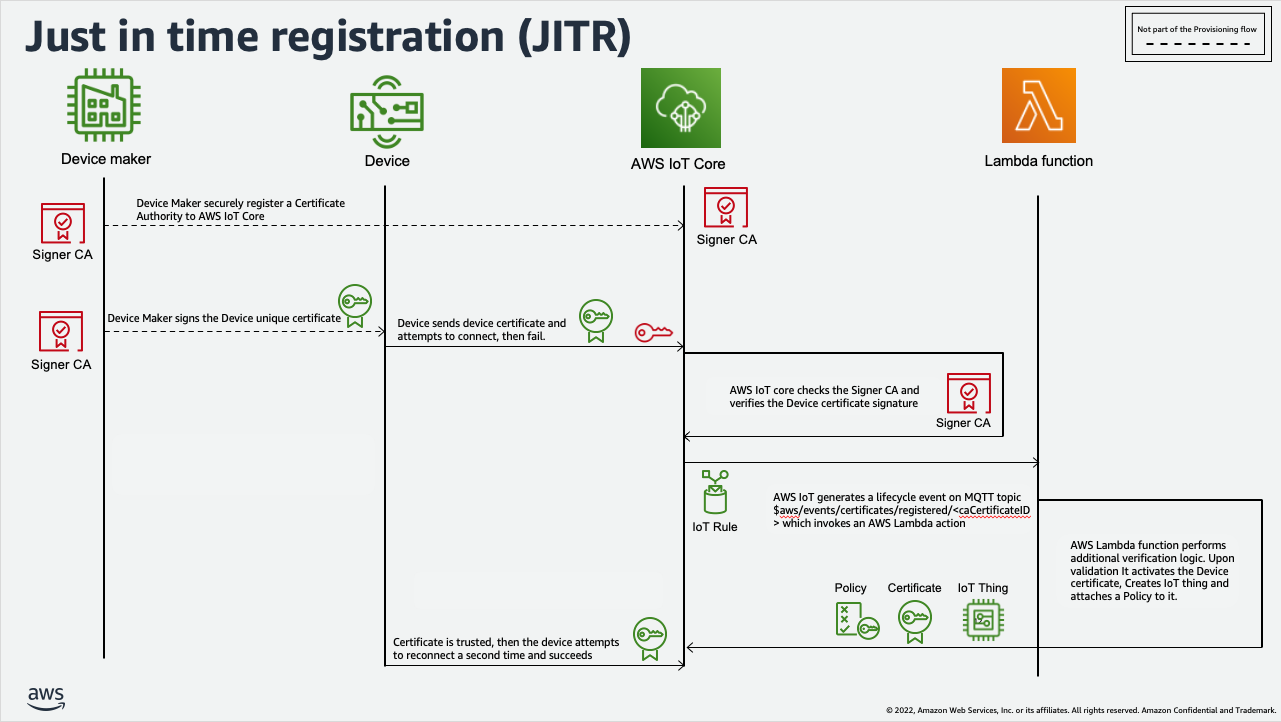
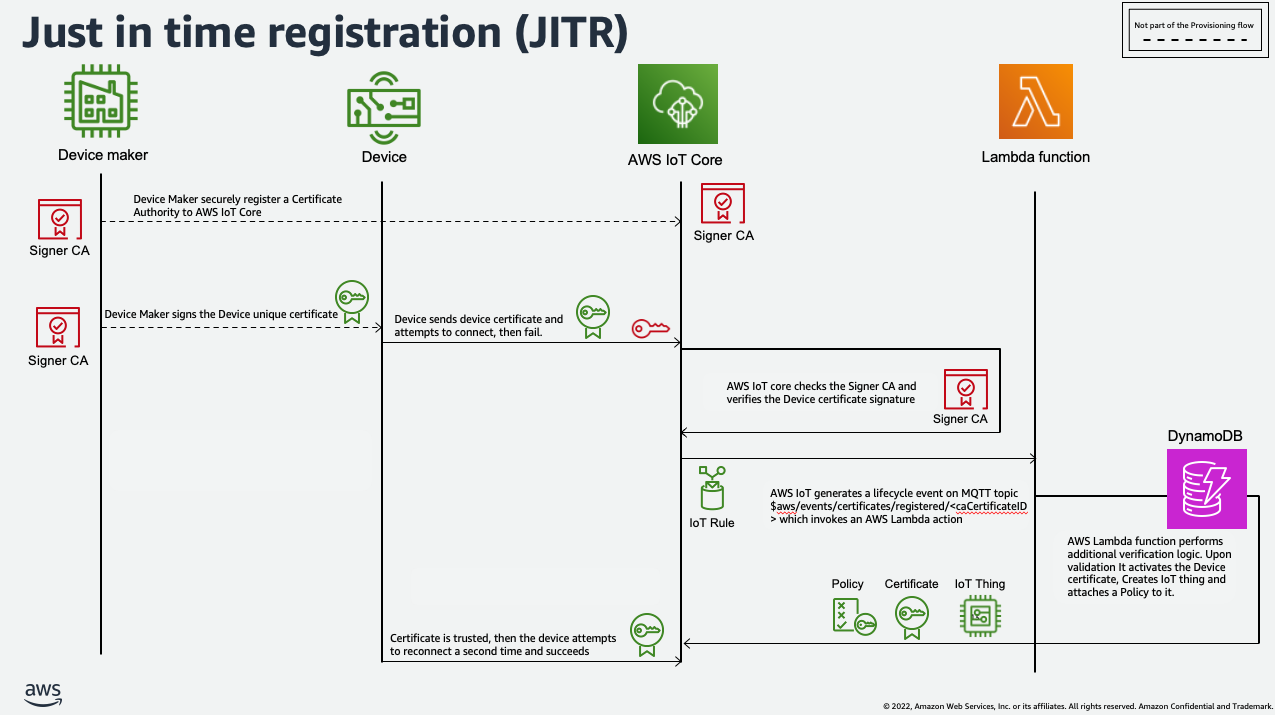
jitr updates

diff --git a/just-in-time-registration/README.md b/just-in-time-registration/README.md
@@ -12,7 +12,9 @@ Before diving deeper on JITR, it is important that you familiarize yourself with
 The JITR flow relies on an AWS Lambda function to complete the flow and provision AWS IoT resources. Because a Lambda function is used in this method, JITR is a much more flexible provisioning method than [JITP](https://github.com/aws-samples/aws-iot-core-device-provisioning-deep-dive/tree/main/just-in-time-provisioning). However, JITP is a much streamlined provisioning method which does not require an External lambda function to be designed, and it should be used if it meets your application requirement. 
 A common use case to use JITR instead of JITP, is when you may want to enrich or check your device provisioning flow against another data source before the certificate is activated, e.g. Database table.  
 
-###JITR provisionig flow
+###JITR provisioning flow
+Below is the flow diagram which the JITR methods uses. Notice that in this flow relies on a registered certificate authority and a Unique device/client certificate that is signed by it. In this example you will also can make use of other AWS service or even external APIs for extra validation, we will be exemplifying with DynamoDB. 
+
 ![JITR flow](/assets/jitr-flow.png)
 
 ### Pre-requisites 
@@ -45,16 +47,18 @@ During the provisioning flow the Lambda function will be invoked by an [AWS IoT 
         "certificateRegistrationTimestamp": "certificateRegistrationTimestamp"
 }
 ```
-The Certificate will remain on a pending_activation status until the provisioning flow is completed. In the case of JITR it will be completed by a Lambda function that can perform actions on AWS IoT Core. 
+This message is published to the reserved topic Certificate anytime an unregistered certificate signed by a Certificate Authority registered in AWS IoT Core attempts to connect. The certificates will be auto registered (if "auto-registration" on) and will remain on a **pending_activation** status until the provisioning flow is completed. In the case of JITR it will be completed by a Lambda function that can perform actions on AWS IoT Core.
 
 ###Designing an AWS IoT Core JITR Lambda Function.
-When designing a Lambda function for JITR you must follow the same [best practices of designing any Lambda function](https://docs.aws.amazon.com/lambda/latest/dg/best-practices.html). Since JITR leverages a Private Certificate Authority, and uniquely generate and signed client certificate, it is a common practice to leverage the information in the client certificate during the creation of AWS IoT Resources, by extracting a serial number from the certificate and using it as an attribute on the AWS IoT Core registry for example. 
+When designing a Lambda function for JITR you must follow the same [best practices of designing any Lambda function](https://docs.aws.amazon.com/lambda/latest/dg/best-practices.html). Since JITR leverages a Private Certificate Authority, and uniquely generate and signed client certificate, it is a common practice to leverage the information in the client certificate during the creation of AWS IoT Resources, by extracting a serial number from the certificate and assigning it to an attribute on the AWS IoT Core registry for example. 
+
 ### Designing the JITR Lambda function
-In the example Lambda function used in this simulation, we will make use of a [Python Crypto library](https://pypi.org/project/pycrypto/) to extract the Certificate Distinguished name information from the provided client certificate. In order properly deploy this Lambda function with its dependencies, you can use the [AWS ToolKit for VS code](https://aws.amazon.com/visualstudio/) or [AWS Cloud9](https://aws.amazon.com/cloud9/) which already come with toolkit integrated. Optionally you can also work with [AWS Lambda Layers](https://docs.aws.amazon.com/lambda/latest/dg/chapter-layers.html). **In this example I will be using AWS ToolKit for VS code.**
+In the example Lambda function used in this simulation, we will make use of a [Python Crypto library](https://pypi.org/project/pycrypto/) to extract the Certificate Serial Number and Distinguished name information from the provided client certificate. In order properly deploy this Lambda function with its dependencies, you can use the [AWS ToolKit for VS code](https://aws.amazon.com/visualstudio/) or [AWS Cloud9](https://aws.amazon.com/cloud9/) which already come with toolkit integrated. Optionally you can also work with [AWS Lambda Layers](https://docs.aws.amazon.com/lambda/latest/dg/chapter-layers.html). **In this example I will be using an AWS Lambda Layer and the example files in this repository.**
+In the directory **/jitr-lambda-example** you can find the **lambda_function.py** which was designed with Python **boto3** and **pyOpenSSL** libraries. You will also find the necessary resources to create the custom Lambda Layer.
 
-In the directory **/jitr-lambda-example**,the Python virtual environment and dependencies have been installed, and a ready to be deployed as Lambda, using Python 3.7runtime.  TIMEOUT 10sec
+Before deploying the lambda function, we must create a Lambda execution role. [Read about how to scope AWS Lambda execution roles](https://docs.aws.amazon.com/lambda/latest/operatorguide/least-privilege.html#). For this particular role, we need to execute action in AWS IoT Core, AWS CloudWatch and AWS DynamoDB. In a production environment you must scope your role permission down to the least needed privileges, which will be reflected by the actions executed in your Lambda function. For this particular example, you will find a policy **/jitr-lambda-function/lambda-execution-role-policy.json** that has been designed with the least privileges for the example **lambda_function.py**. Keep in mind that if you decide to customize the example for testing, you must make sure the policy meets your requeriments.
 
-Run the following commands:
+Run the following commands to create the Lamnbda execution role:
 
 ```
 ```
@@ -242,7 +246,7 @@ aws iot create-policy --policy-name AnyTypeThing-policy --policy-document file:/
  ### Creating the JITP provisioning role
  This role is assumed by the AWS IoT Core task running your provisioning template. The minimum trust and permissions for the role will vary depending on your provisioning template, example if your provisioning does not include adding thing to a Billing group, you don't need the **"iot:AddThingToBillingGroup"** action. To facilitate the scoping of a correct policy, AWS provides a managed [policy for Thing Registration](https://docs.aws.amazon.com/aws-managed-policy/latest/reference/AWSIoTThingsRegistration.html), we recommend you start from that one and trim it to the least needed privileges for your provisioning method. 
 
-For this educational project you can just execute the commands below as is:
+For this example project you can just execute the commands below as is:
 
     ```
     aws iam create-role \
@@ -283,8 +287,6 @@ Now that you have all resource in place and understand the template, you can exe
       openssl genrsa -out rootCA.key 2048
 
       openssl req -new -sha256 -key rootCA.key -nodes -out rootCA.csr -config rootCA_openssl.conf
-
-      openssl x509 -req -days 3650 -extfile rootCA_openssl.conf -extensions v3_ca -in rootCA.csr -signkey rootCA.key -out rootCA.pem
       ```
 * **Fill the signing form**. 
    Feel free to use any value you like, but fill all fields, as the Certificate DN is a way to identify Certificates. An example below: 
@@ -300,6 +302,12 @@ Now that you have all resource in place and understand the template, you can exe
    Organization Unit [ ]:**All**
    
    Common Name [ ]:**JITR-IoT-Devices-Root-CA**
+
+
+* **Now sign the Certificate with the key**
+      ```
+      openssl x509 -req -days 3650 -extfile rootCA_openssl.conf -extensions v3_ca -in rootCA.csr -signkey rootCA.key -out rootCA.pem
+      ```
 
 * **Create verification code certificate**.
    The verificationCert.pem file we get from this step will be used when we register the CA certificate. This is necessary step which protects the registration, the service or user registering must be able to acquire a verification code. 
@@ -320,6 +328,7 @@ Now that you have all resource in place and understand the template, you can exe
       
     **Common Name (e.g. server FQDN or YOUR name) []: < REGISTRATION-CODE>**
 
+* **Now sign the Certificate with the key**
     ```
     openssl x509 -req -in verificationCert.csr -CA rootCA.pem -CAkey rootCA.key -CAcreateserial -out verificationCert.pem -days 500 -sha256
     ```
@@ -331,6 +340,9 @@ Now that you have all resource in place and understand the template, you can exe
       ```
       aws iot register-ca-certificate --ca-certificate file://rootCA.pem --verification-cert file://verificationCert.pem --set-as-active --allow-auto-registration 
       ```
+    If you navigate to **AWS IoT Core -> Security -> CA certificates** you will see that your CA has been registered as the example below.
+
+    ![registered-ca](/assets/registered-ca.png)
 
 ### Testing the provisioning template and deploying a simulation fleet 
 

diff --git a/just-in-time-provisioning/README.md b/just-in-time-provisioning/README.md
@@ -9,8 +9,10 @@ Just in time provisioning has a dependency on using a private certificate author
 The flow diagram below explains each action that happens in a JITP provisioning flow, note that some of those are not part of the flow itself, but actions that have to be done by a security administrator and manufacturing prior to the first connection. 
 
 ###JITP provisioning flow
-![JITP flow](/assets/jitp-flow.png)
 
+
+![JITP flow](/assets/jitp-flow.png)
+Below is the flow diagram which the JITP methods uses. Notice that in this flow relies on a registered certificate authority and a Unique device/client certificate that is signed by it.
 
 ### Pre-requisites 
 
@@ -207,7 +209,7 @@ aws iot create-policy --policy-name AnyTypeThing-policy --policy-document file:/
  ### Creating the JITP provisioning role
  This role is assumed by the AWS IoT Core task running your provisioning template. The minimum trust and permissions for the role will vary depending on your provisioning template, example if your provisioning does not include adding thing to a Billing group, you don't need the **"iot:AddThingToBillingGroup"** action. To facilitate the scoping of a correct policy, AWS provides a managed [policy for Thing Registration](https://docs.aws.amazon.com/aws-managed-policy/latest/reference/AWSIoTThingsRegistration.html), we recommend you start from that one and trim it to the least needed privileges for your provisioning method. 
 
-For this educational project you can just execute the commands below as is:
+For this example project you can just execute the commands below as is:
 
     ```
     aws iam create-role \
@@ -296,7 +298,9 @@ Now that you have all resource in place and understand the template, you can exe
       ```
       aws iot register-ca-certificate --ca-certificate file://rootCA.pem --verification-cert file://verificationCert.pem --set-as-active --allow-auto-registration --registration-config templateName=jitp-provisioning-template
       ```
+     If you navigate to **AWS IoT Core -> Security -> CA certificates** you will see that your CA has been registered as the example below.
 
+    ![registered-ca](/assets/registered-ca.png)
 ### Testing the provisioning template and deploying a simulation fleet 
 
 For this next step you will be creating a Simulation fleet using Docker containers that simulate an IoT client device, using the [AWS IoT V2 SDK for Python](https://github.com/aws/aws-iot-device-sdk-python-v2).
@@ -306,7 +310,7 @@ For this next step you will be creating a Simulation fleet using Docker containe
    The Diagram below describes what you are about to do.
    * The simulation.py will build a container Image based on the present docker compose file.
    * The simulation will use the provided arguments (endpoint and FleetSize) to create docker containers.
-   *  In the background the Signing_service.py will start in its own isolated container in the Dcoker bridge network mode.
+   *  In the background the Signing_service.py will start in its own isolated container in the Docker bridge network mode.
    *  As the containers start, they will self generate unique Certificate Keys, and request the signing_service.py for a CA signature. **Note:** This is an educational example of how certificates can be signed on a secure and completely isolated network, do not replicate this method without proper understanding of manufacturing with x509 certificates. 
    *  With a signed certificate each container will connect to AWS IoT Core and start the JITP flow, they will then successfully connect and publish messages, on the AnyCompany/Certificate-DeviceSerialNumber/telemetry
 
